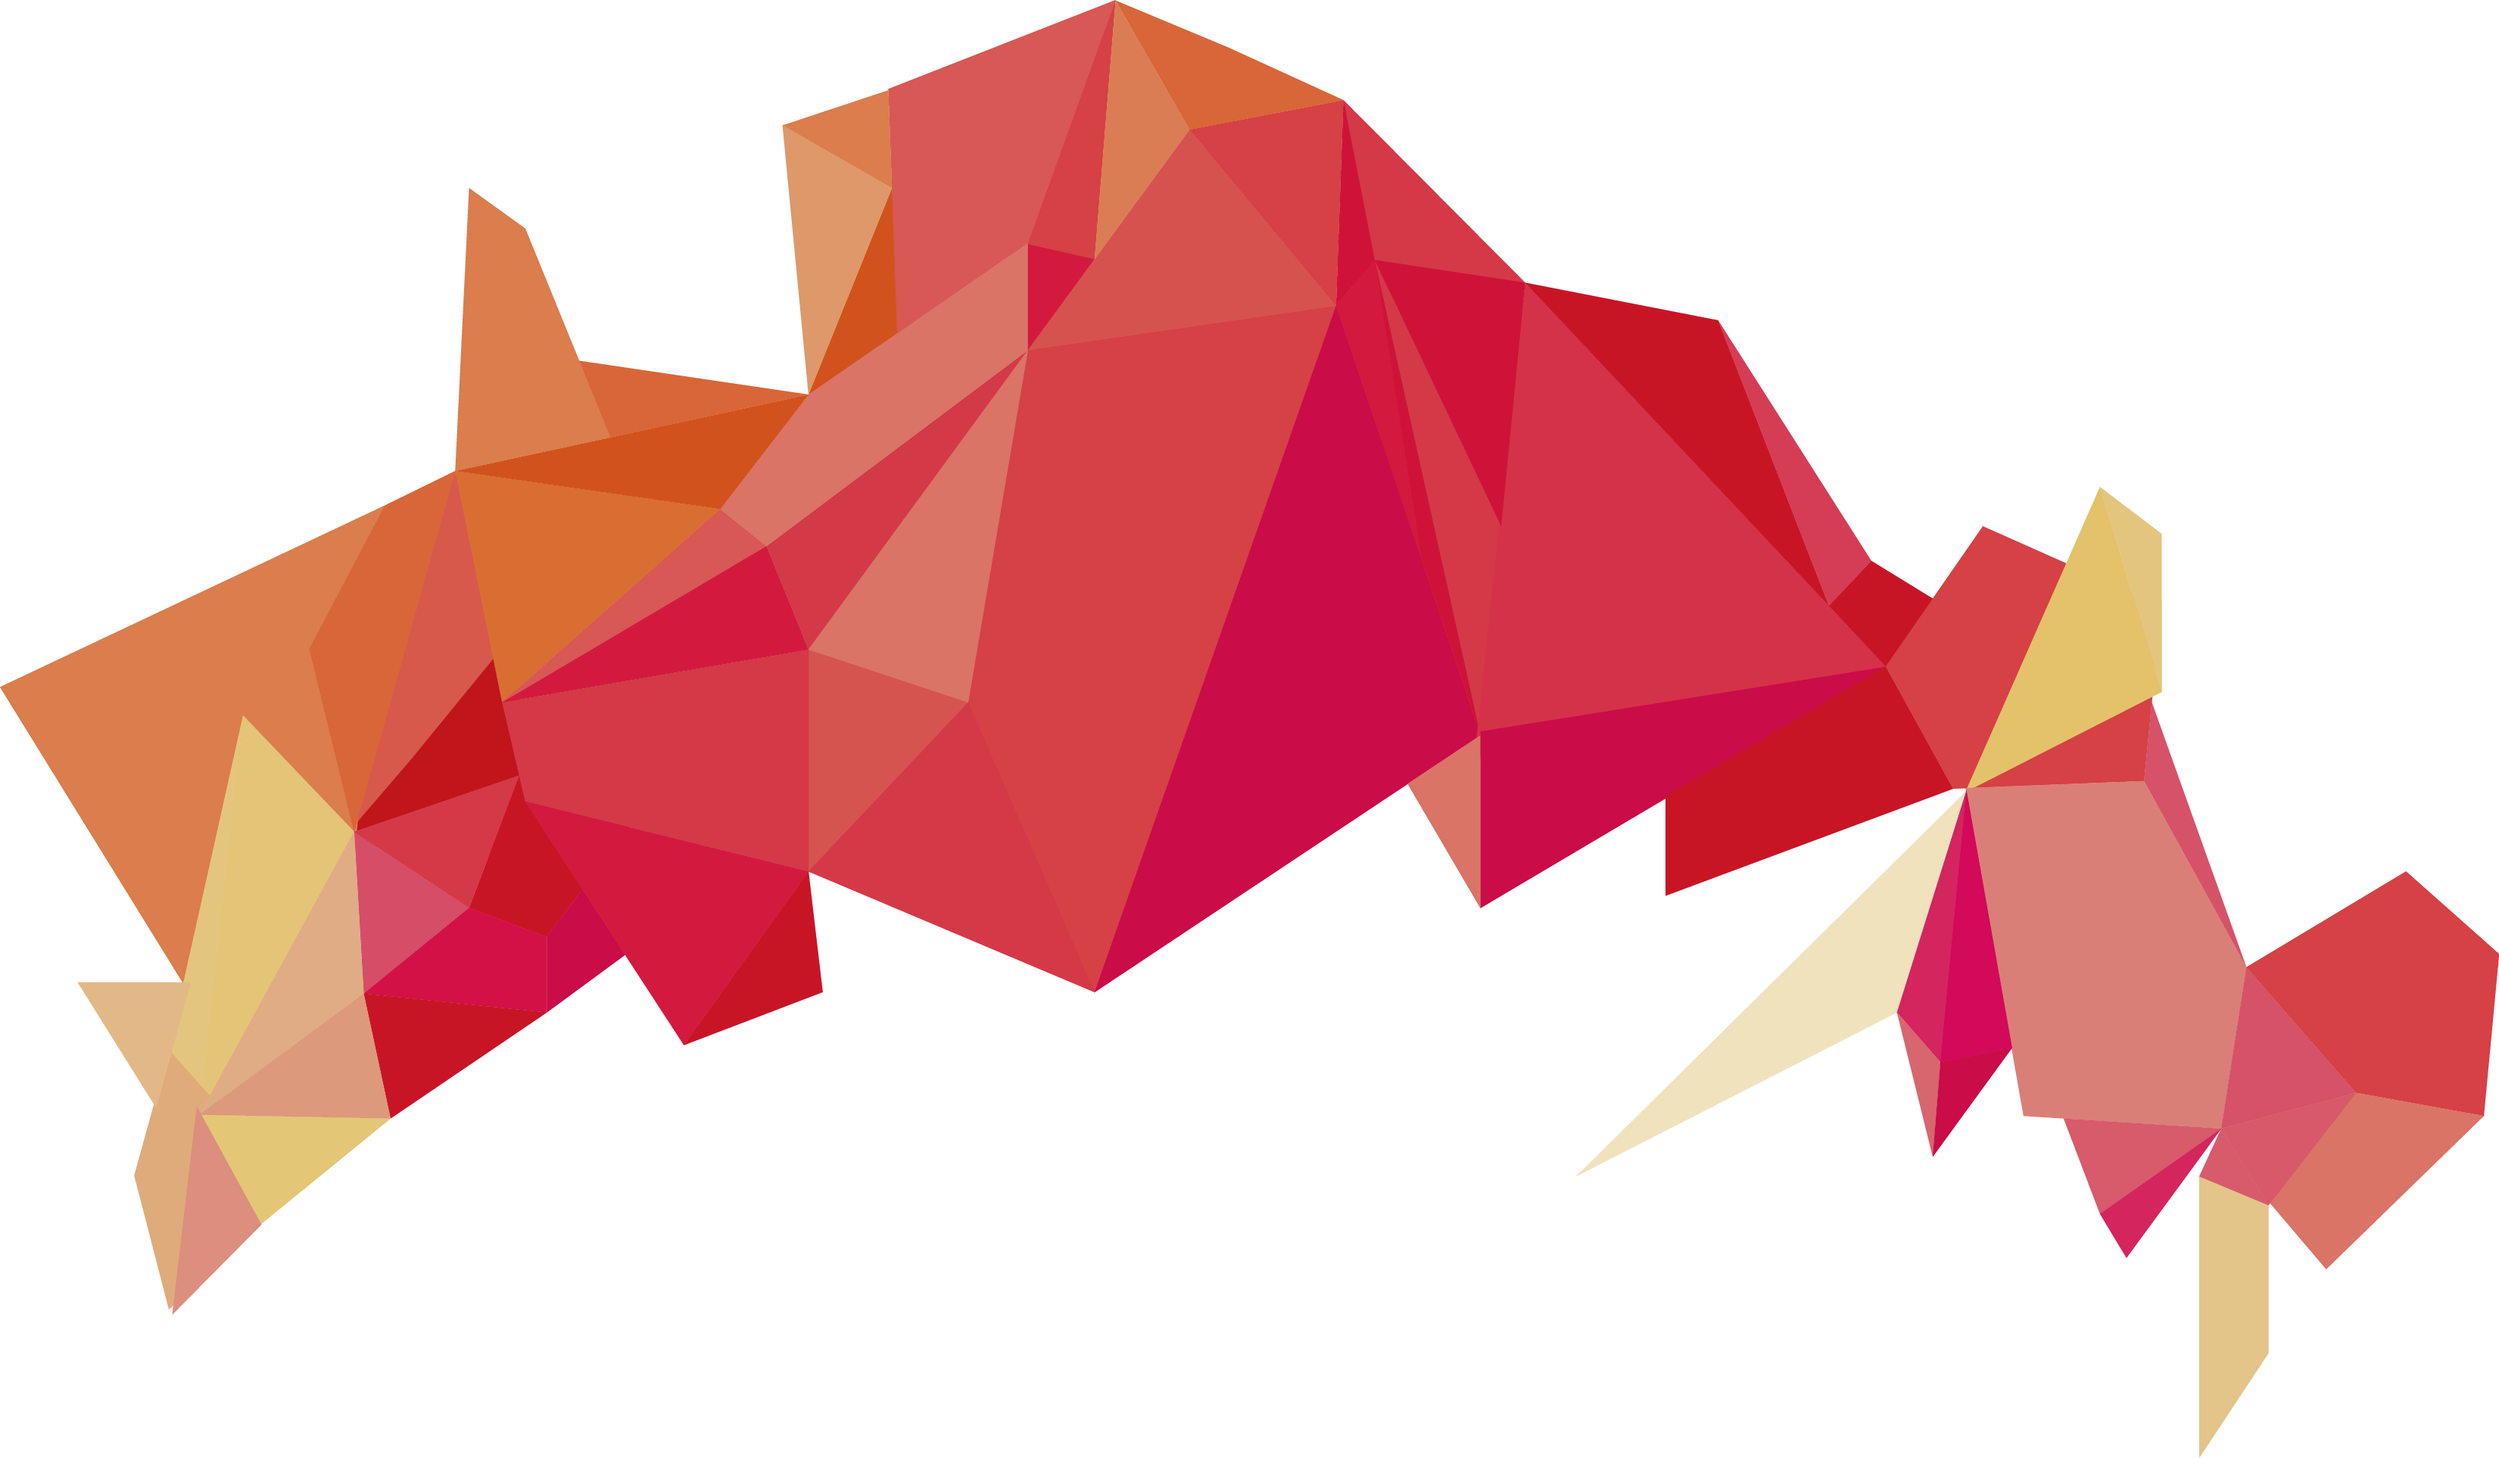
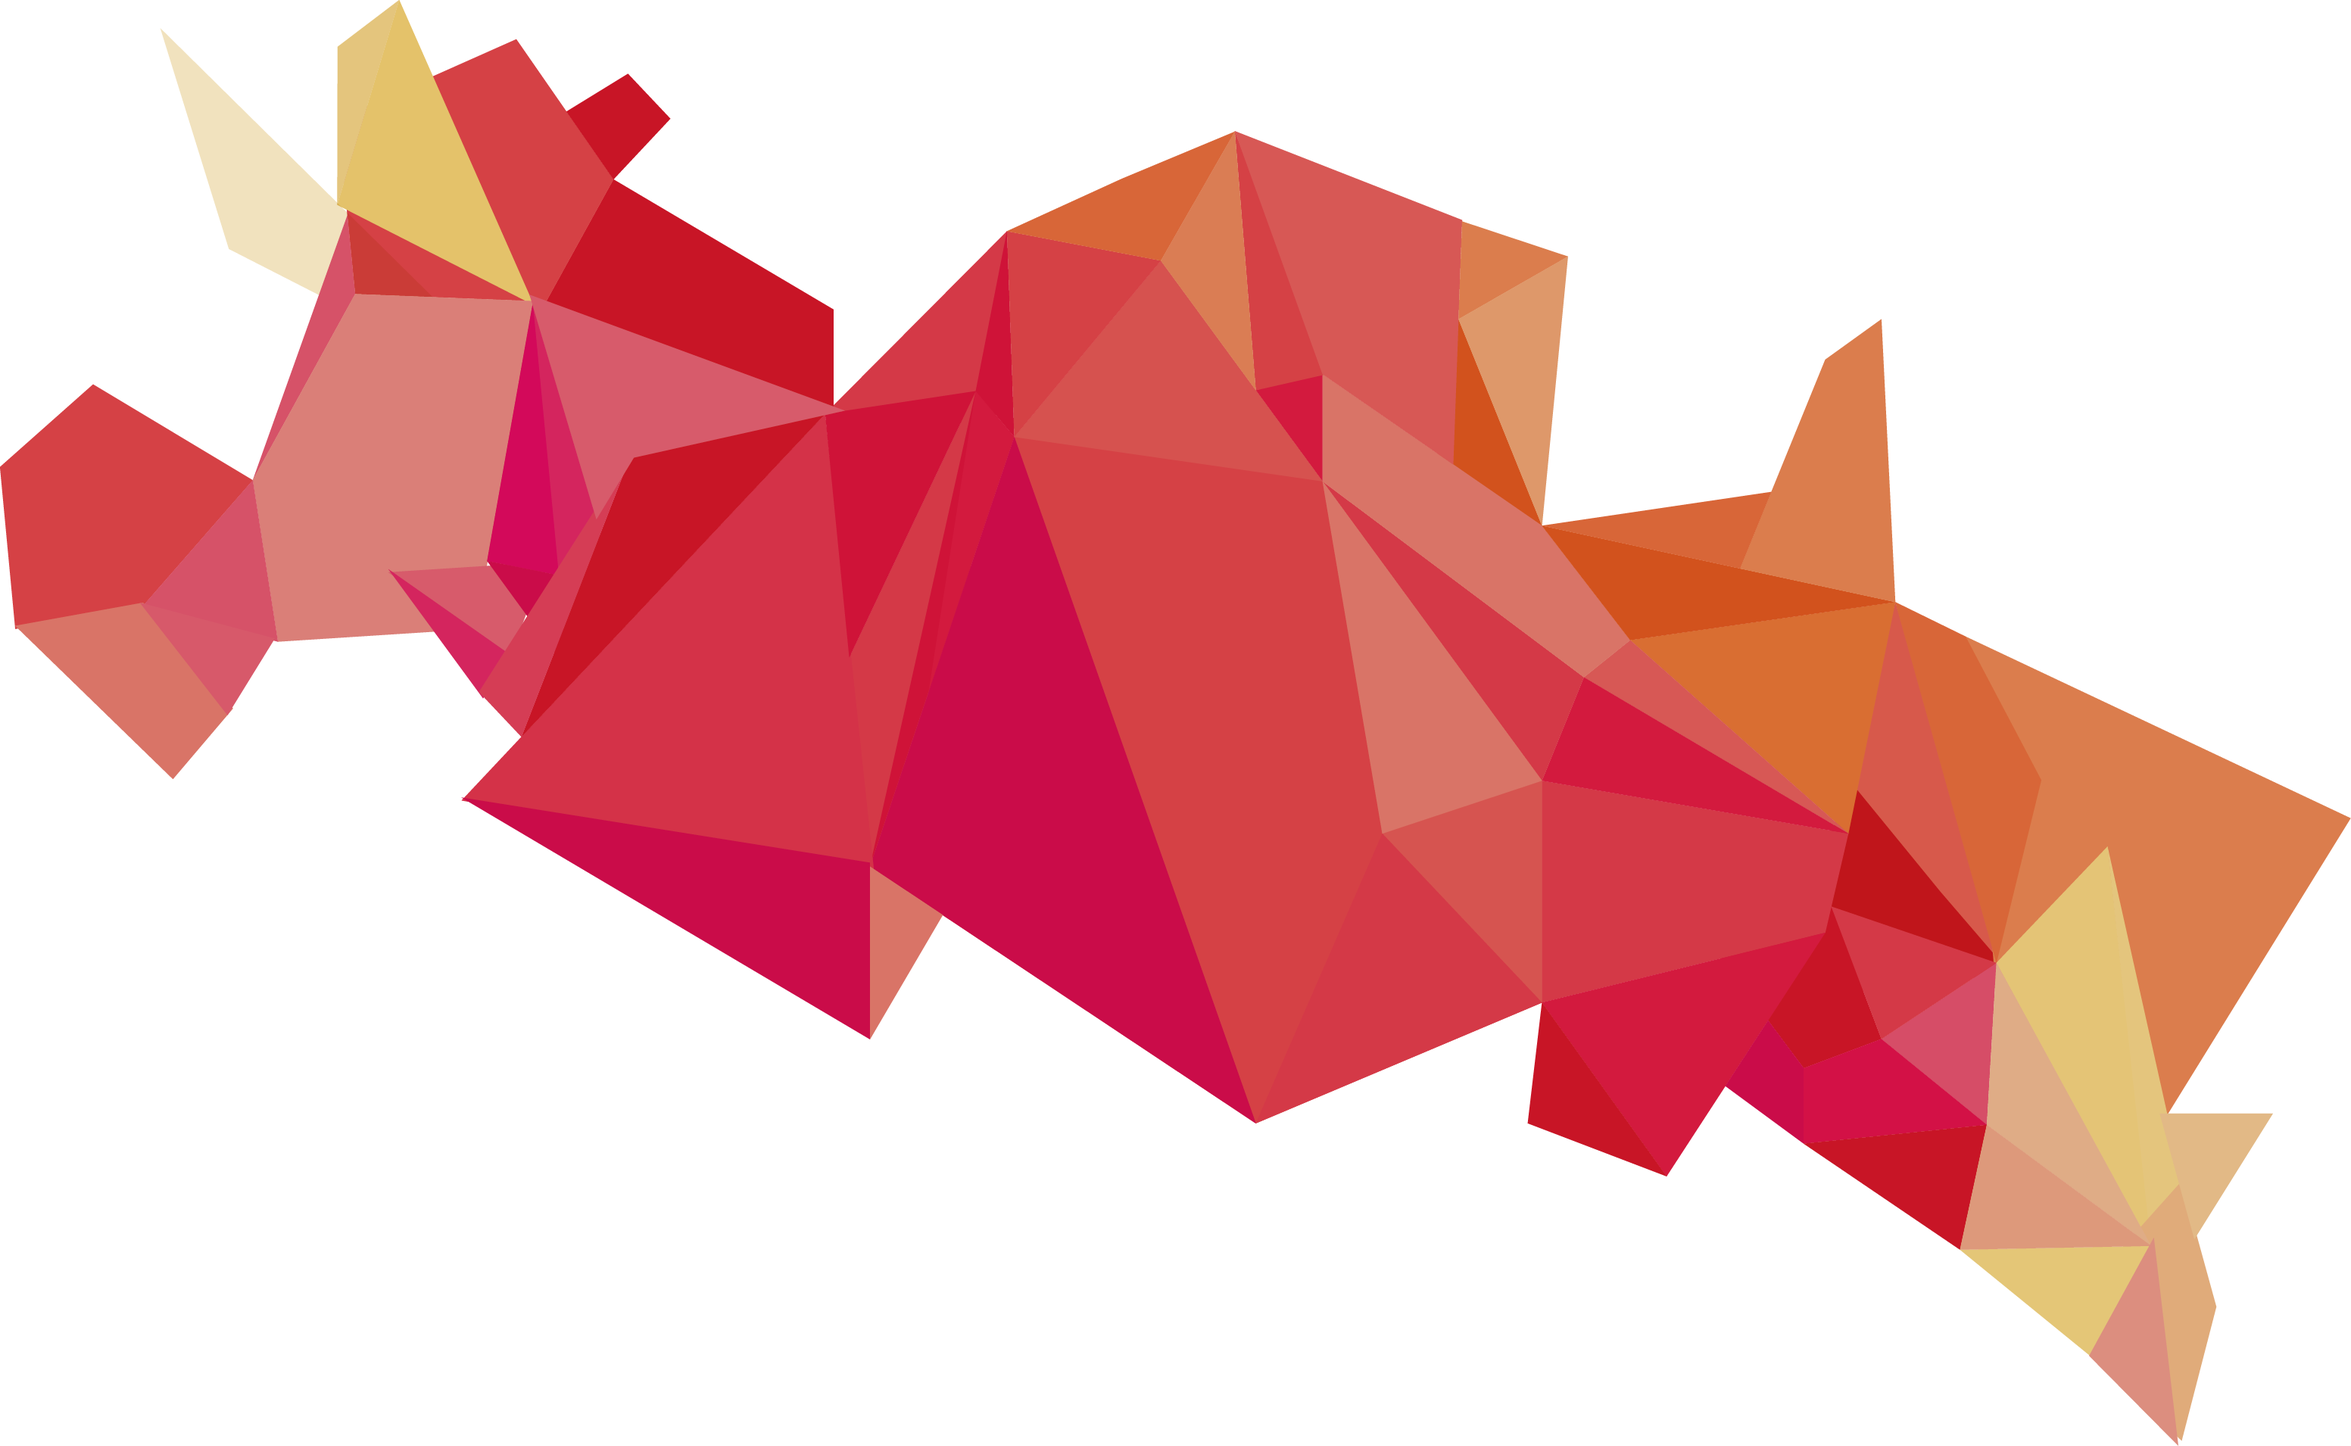
New commit, no message

diff --git a/themes/flip_theme/css/flip.css b/themes/flip_theme/css/flip.css
@@ -259,7 +259,7 @@ ul.menu a:hover {
   background-image: url("/sites/default/themes/flip_theme/img/background-abstract-placeholder.png");
   background-repeat: no-repeat;
   background-size: 102%;
-  background-position: -50px -154px; }
+  background-position: -10px -75px; }
 
 #block-block-15 .row-fluid {
   border-top: 1px solid #c7c7c7; }

diff --git a/themes/flip_theme/sass/_nav.sass b/themes/flip_theme/sass/_nav.sass
@@ -149,7 +149,7 @@ ul.menu a:hover
   background-image: url("/sites/default/themes/flip_theme/img/background-abstract-placeholder.png")
   background-repeat: no-repeat
   background-size: 102%
-  background-position: -50px -154px
+  background-position: -10px -75px
 
 #block-block-15 
   .row-fluid
